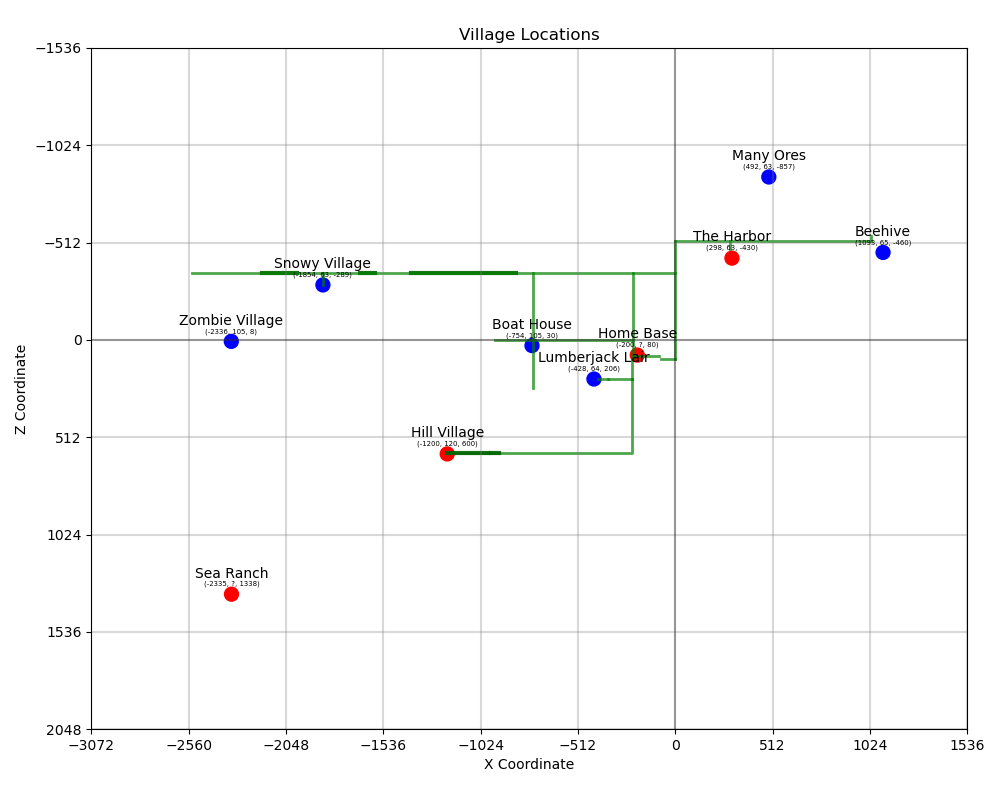
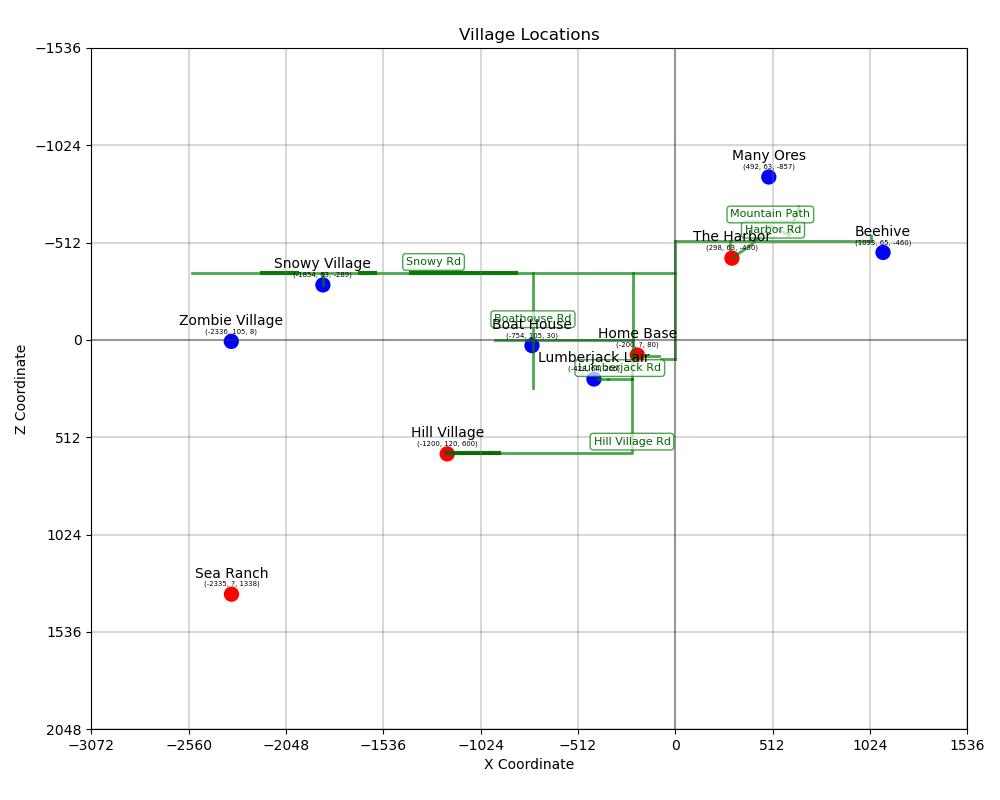
add optional road names

diff --git a/Minecraft Map.py b/Minecraft Map.py
@@ -19,27 +19,30 @@ villages = {         # X, Y, Z, has_portal
     'Zombie Village': (-2336, 105, 8, False)
 }
 
-skyways = {  # list of points followed by is_tunnel flag
-    'harbor onramp': [(288, 63, -477), (288, 105, -520), False],
-    'beehive onramp': [(1028, 79, -544), (1028, 105, -520), False],
-    'Harbor Rd': [(0, 105, -520), (1028, 105, -520), False],
-    'snowy village onramp': [(-1854, 63, -289), (-1854, 105, -350), False], # 1855?
-    'snowy tunnel 1': [(-1392, 105, -350), (-836, 105, -350), True],
-    'snowy tunnel 2': [(-1657, 105, -350), (-1578, 105, -350), True],
-    'snowy tunnel 3': [(-2177, 105, -350), (-1991, 105, -350), True],
-    'Snowy Rd': [(-2544, 105, -350), (0, 105, -350), False],
-    'snowy harbor home': [(0, 105, -520), (0, 105, 100), False],
-    'snowy harbor home shack': [(0, 105, 100), (-74, 105, 100), False],
-    'homeshack rd': [(-88, 106, 87), (-223, 106, 87), False],
-    'homeboat': [(-224, 105, 0), (-949, 105, 0), False],
-    'Boathouse Rd': [(-749, 105, -350), (-749, 105, 252), False],
-    'homesnowy': [(-224, 105, 96), (-224, 105, -350), False],
-    'tohill': [(-229, 110, 94), (-229, 113, 208), False],
-    'Lumberjack Rd': [(-229, 113, 208), (-355, 113, 208), False],
-    'lumberjack onramp': [(-355, 113, 208), (-407, 63, 208), False],
-    'Hill Village Rd': [(-228, 113, 208), (-228, 113, 595), (-1200, 113, 595), False],
-    'hill tunnel 1': [(-927, 113, 595), (-970, 113, 595), True],
-    'hill tunnel 2': [(-987, 113, 595), (-1200, 113, 595), True]
+skyways = {  # list of points followed by is_tunnel flag and show_label flag
+    # Format: [point1, point2, ..., is_tunnel, show_label]
+    # If show_label is True, the skyway name will be displayed on the graph
+    'harbor onramp': [(288, 63, -477), (288, 105, -520), False, False],
+    'beehive onramp': [(1028, 79, -544), (1028, 105, -520), False, False],
+    'Harbor Rd': [(0, 105, -520), (1028, 105, -520), False, True], # Show label
+    'snowy village onramp': [(-1854, 63, -289), (-1854, 105, -350), False, False],
+    'snowy tunnel 1': [(-1392, 105, -350), (-836, 105, -350), True, False],
+    'snowy tunnel 2': [(-1657, 105, -350), (-1578, 105, -350), True, False],
+    'snowy tunnel 3': [(-2177, 105, -350), (-1991, 105, -350), True, False],
+    'Snowy Rd': [(-2544, 105, -350), (0, 105, -350), False, True], # Show label
+    'snowy harbor home': [(0, 105, -520), (0, 105, 100), False, False],
+    'snowy harbor home shack': [(0, 105, 100), (-74, 105, 100), False, False],
+    'homeshack rd': [(-88, 106, 87), (-223, 106, 87), False, False],
+    'homeboat': [(-224, 105, 0), (-949, 105, 0), False, False],
+    'Boathouse Rd': [(-749, 105, -350), (-749, 105, 252), False, True], # Show label
+    'homesnowy': [(-224, 105, 96), (-224, 105, -350), False, False],
+    'tohill': [(-229, 110, 94), (-229, 113, 208), False, False],
+    'Lumberjack Rd': [(-229, 113, 208), (-355, 113, 208), False, True], # Show label
+    'lumberjack onramp': [(-355, 113, 208), (-407, 63, 208), False, False],
+    'Hill Village Rd': [(-228, 113, 208), (-228, 113, 595), (-1200, 113, 595), False, True], # Show label
+    'hill tunnel 1': [(-927, 113, 595), (-970, 113, 595), True, False],
+    'hill tunnel 2': [(-987, 113, 595), (-1200, 113, 595), True, False],
+    'Mountain Path': [(298, 63, -430), (400, 90, -500), (500, 75, -600), (600, 110, -550), (650, 120, -700), False, True] # Show label
 }
 
 
@@ -61,19 +64,45 @@ plt.scatter(x_coords, z_coords, s=100, color=colors)
 
 # Draw skyway lines
 for name, points in skyways.items():
-    # Last element is is_tunnel flag
-    is_tunnel = points[-1]
-    # All elements except last are coordinate points
-    coordinates = points[:-1]
+    # Last two elements are is_tunnel and show_label flags
+    show_label = points[-1]
+    is_tunnel = points[-2]
+    # All elements except last two are coordinate points
+    coordinates = points[:-2]
     
     # Extract X and Z coordinates for all points
     x_values = [point[0] for point in coordinates]
     z_values = [point[2] for point in coordinates]
     
+    # Plot the line
     if is_tunnel:
-        plt.plot(x_values, z_values, 'darkgreen', alpha=0.9, linewidth=3)
+        line = plt.plot(x_values, z_values, 'darkgreen', alpha=0.9, linewidth=3)[0]
     else:
-        plt.plot(x_values, z_values, 'g-', alpha=0.7, linewidth=2)
+        line = plt.plot(x_values, z_values, 'g-', alpha=0.7, linewidth=2)[0]
+    
+    # Add a label to the line if requested
+    if show_label:
+        # Find middle point of the path for label placement
+        middle_idx = len(x_values) // 2
+        
+        # For paths with multiple points, place label at midpoint
+        if len(x_values) > 2:
+            # Place at the middle segment
+            mid_x = x_values[middle_idx]
+            mid_z = z_values[middle_idx]
+        else:
+            # For simple two-point paths, place label at midpoint of the line
+            mid_x = (x_values[0] + x_values[-1]) / 2
+            mid_z = (z_values[0] + z_values[-1]) / 2
+        
+        # Add a slight offset for better visibility
+        plt.annotate(name, (mid_x, mid_z), 
+                    textcoords="offset points",
+                    xytext=(0, 6),
+                    ha='center',
+                    color='darkgreen',
+                    fontsize=8,
+                    bbox=dict(boxstyle="round,pad=0.3", fc="white", ec="green", alpha=0.7))
 
 # Add village labels with coordinates
 for i, name in enumerate(names):
